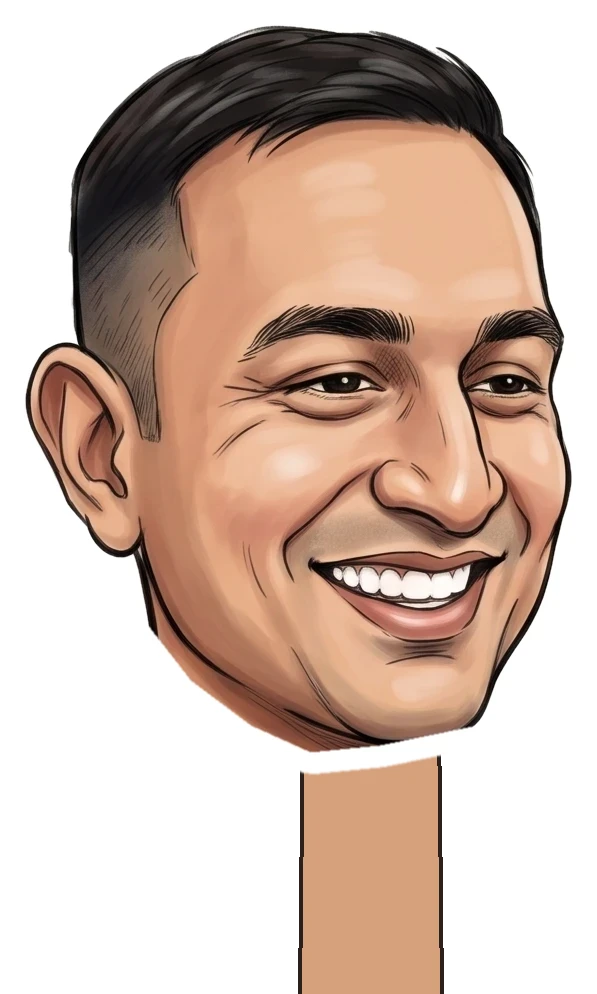
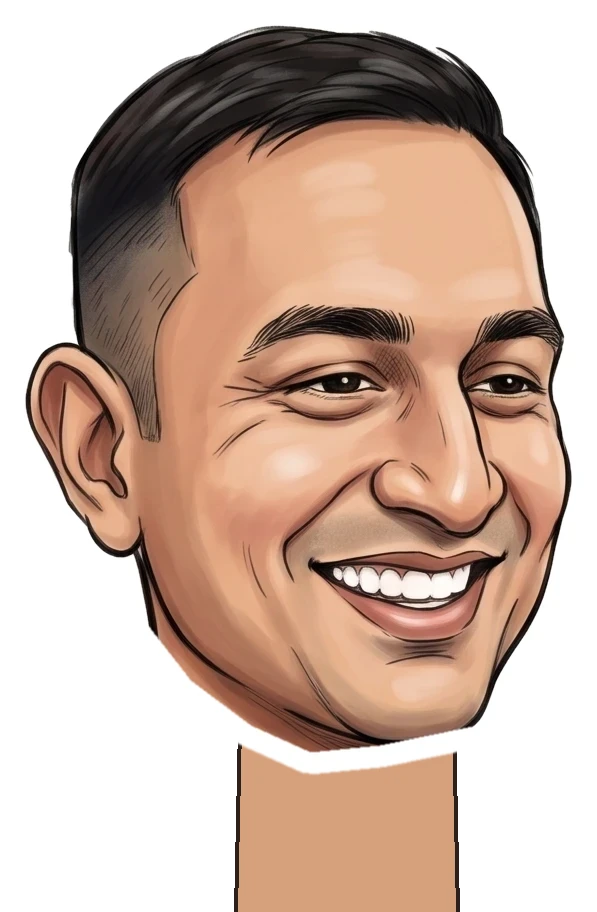
Shorter, thicker neck
Claude-Session: https://claude.ai/code/session_014wiP6WimH2b4AML7aFrYC6

diff --git a/index.html b/index.html
@@ -179,10 +179,10 @@
   <img class="art" data-box="0,0,1680,944" src="assets/land-day.webp" alt="">
   <img class="art ph1" data-box="0,0,1680,944" src="assets/land-sunset.webp" alt="">
   <img class="art ph2" data-box="0,0,1680,944" src="assets/land-night.webp" alt="">
-<div id="plane" class="sprite"><img src="assets/plane-body.webp" alt=""><div class="propwrap" style="left:-3.333%;top:-1.679%;width:35.714%;height:71.942%"><img class="prop" src="assets/propeller.webp" alt=""></div><img id="hPlane2" class="head flip" src="assets/head-p-walk-n.webp" alt="" style="left:46.67%;top:-12.47%;width:13.87%;height:44.44%;opacity:0"><img id="hPlane" class="head flip" src="assets/head-p-plane-n.webp" alt="" style="left:47.62%;top:-11.51%;width:13.26%;height:44.46%"></div>
+<div id="plane" class="sprite"><img src="assets/plane-body.webp" alt=""><div class="propwrap" style="left:-3.333%;top:-1.679%;width:35.714%;height:71.942%"><img class="prop" src="assets/propeller.webp" alt=""></div><img id="hPlane2" class="head flip" src="assets/head-p-walk-n.webp" alt="" style="left:46.90%;top:-9.11%;width:13.87%;height:40.80%;opacity:0"><img id="hPlane" class="head flip" src="assets/head-p-plane-n.webp" alt="" style="left:47.62%;top:-8.15%;width:13.26%;height:40.79%"></div>
   <div id="manu" class="sprite"><img src="assets/manu-body.webp" alt=""><div class="arm"><img src="assets/manu-arm.webp" alt=""></div><img id="hManu" class="head" src="assets/head-m-wave.webp" alt="" style="left:29.57%;top:10.45%;width:47.91%;height:27.03%"><img id="hManuR" class="head" src="assets/head-m-upright.webp" alt="" style="left:28.70%;top:10.45%;width:46.90%;height:27.03%;opacity:0"><img id="hManuL" class="head" src="assets/head-m-left.webp" alt="" style="left:26.96%;top:11.17%;width:43.43%;height:26.31%;opacity:0"></div>
   <div id="planeEmpty" class="sprite"><img src="assets/plane-empty.webp" alt=""><div class="propwrap" style="left:-3.333%;top:-1.679%;width:35.714%;height:71.942%"><img class="prop slow" src="assets/propeller.webp" alt=""></div></div>
-  <div id="walker" class="sprite"><img src="assets/walker-body.webp" alt=""><img id="hWalk" class="head" src="assets/head-p-walk-n.webp" alt="" style="left:34.93%;top:-10.00%;width:35.95%;height:34.14%"></div>
+  <div id="walker" class="sprite"><img src="assets/walker-body.webp" alt=""><img id="hWalk" class="head" src="assets/head-p-walk-n.webp" alt="" style="left:33.97%;top:-7.43%;width:35.95%;height:31.34%"></div>
   <div id="hug" class="sprite"><img src="assets/hug-body.webp" alt=""><img id="hHugM" class="head" src="assets/head-m-hug.webp" alt="" style="left:19.86%;top:-5.06%;width:28.13%;height:24.19%"><img id="hHugP" class="head" src="assets/head-p-hug.webp" alt="" style="left:-1.89%;top:3.94%;width:25.04%;height:18.85%"></div>
   <div id="hearts"></div>
 </div>
